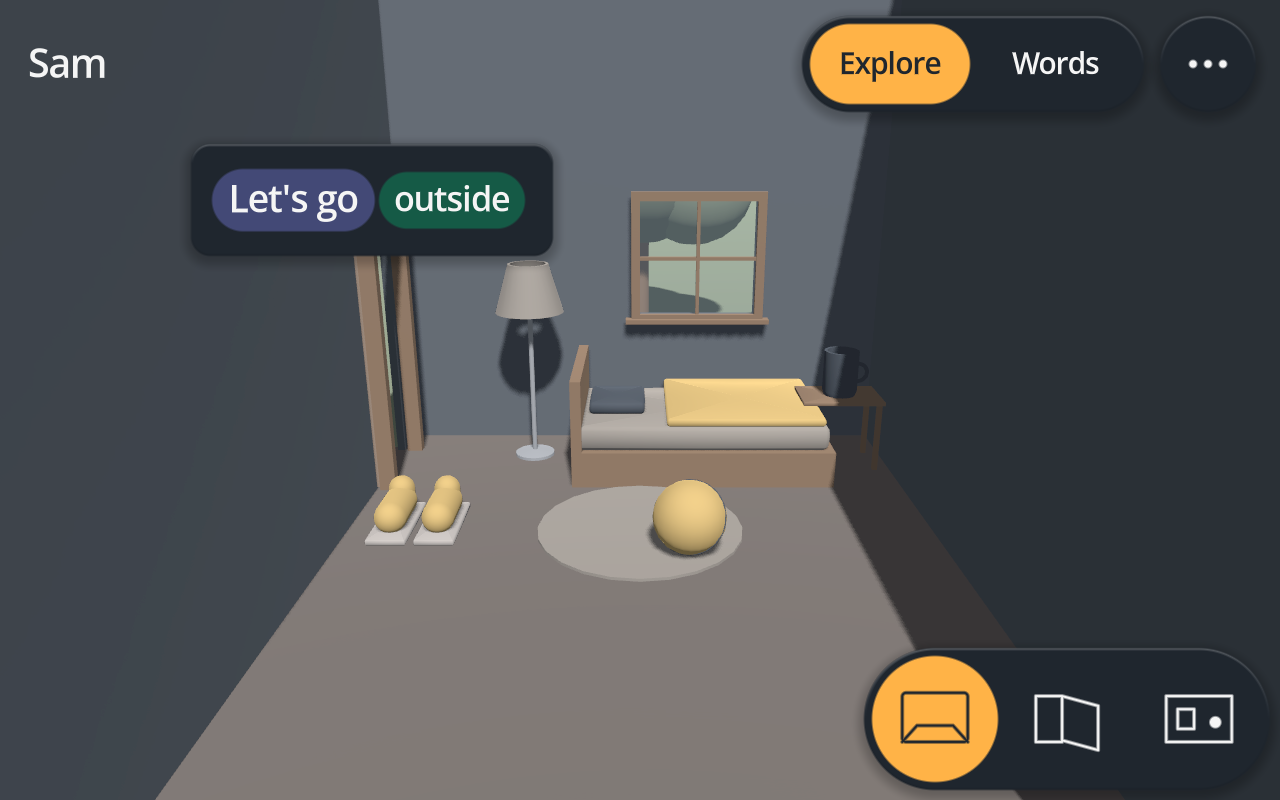
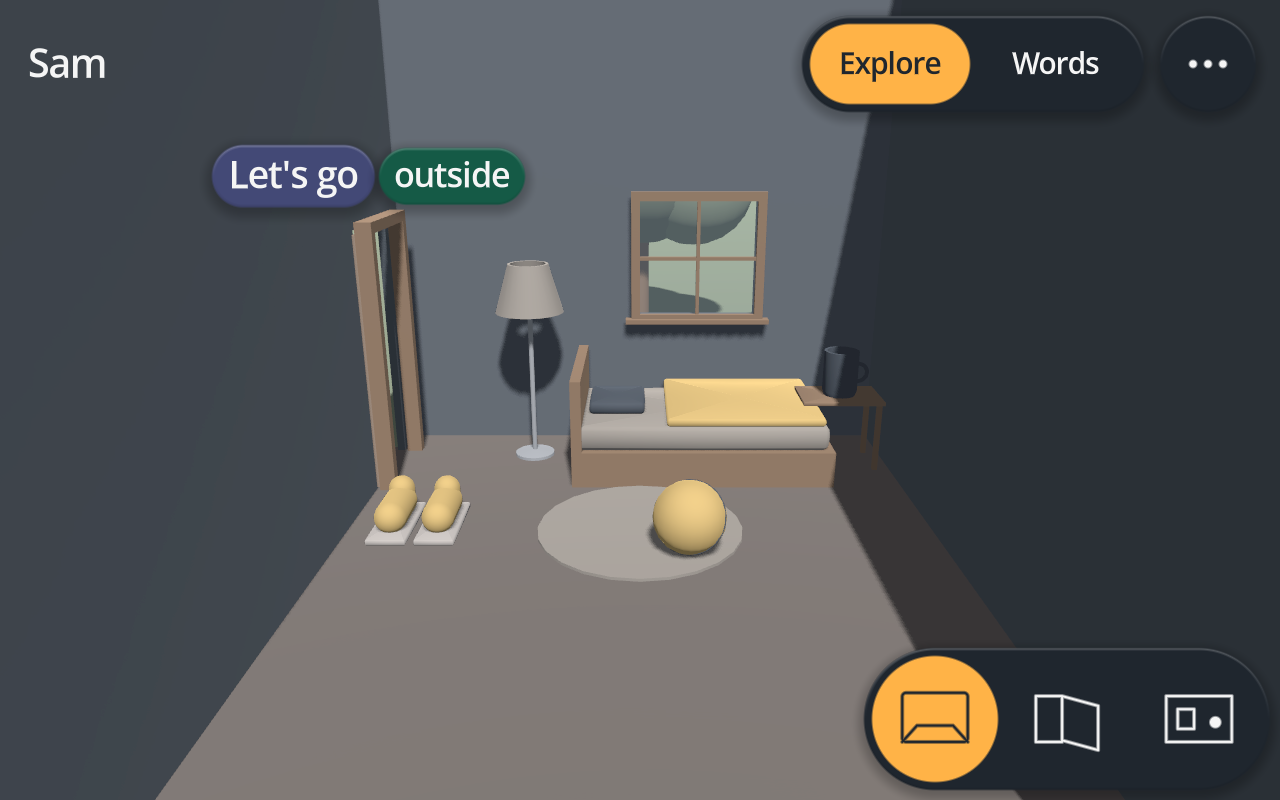
feat(ui) float the room caption as bare chunk pills with the style's relief
- The caption over an object is a `ChunkRow` alone. The `SdfPanel` card behind it is gone.
- `ChunkRow.floating` gives the pills the preset's relief, the lit rim and the shadow, so they stand off the
  room. A tile's pills stay flat.
- The caption is placed again once wrapped pills settle their height.
- The room probe checks that the caption is bare pills with relief and that tile pills are flat.
- `docs/img/room.png` is re-rendered.

Changed region(s): [[0.125, 0.1562, 0.4375, 0.3438]]

diff --git a/docs/ui.md b/docs/ui.md
@@ -58,6 +58,8 @@ is `PASS`, so a tap on its padding does not.
 - The chunk being spoken grows by a tenth, times `Style.motion_scale()`. At motion NONE it brightens instead
   and keeps its size.
 - The tile in Words and the caption in the room are both a `ChunkRow`.
+- A caption has no card behind it. Its pills take the style's relief, so they stand off the room.
+- A tile's pills sit flat on the tile.
 
 ## The controls
 
@@ -70,7 +72,7 @@ is `PASS`, so a tap on its padding does not.
 | `PillBar` | `MarginContainer` | A floating pill of quiet pill buttons in one toggle group: the mode strip, the view widget. A view button is seven tenths of the tile floor, never under 96 px. |
 | `SdfField` | `LineEdit` | A text field with an `SdfShape` behind it; focus adds the accent border. |
 | `HoldButton` | `SdfButton` | Fires only after a hold. Every adult screen sits behind one. |
-| `ChunkRow` | `HFlowContainer` | A gestalt's chunks as wrapping pills, each an `SdfShape` in its chunk color. `play` marks each chunk in turn. |
+| `ChunkRow` | `HFlowContainer` | A gestalt's chunks as wrapping pills, each an `SdfShape` in its chunk color. `play` marks each chunk in turn. `floating` gives the pills the style's relief. |
 
 The background quad an `SdfShape` paints is the control grown by `SdfShape.PAD_PX` on each side, so the
 shadow has room. It is drawn with `draw_texture_rect` over a white texture because a plain rect carries no UVs
@@ -111,7 +113,7 @@ which is where they are checked. The picker image uses the probe's isolated fixt
 - Profile rows keep their Look action inline. Creation and look editing have separate forms.
 - Keyboard focus stays inside the recording overlay. Back and Escape restore focus to the initiating control.
 - A scroll or lost window focus cancels a caregiver hold. Losing focus also cancels an unfinished recording.
-- The current phrase has one opaque caption panel. Repeated taps replace it; view changes clear it.
+- The current phrase has one caption. Repeated taps replace it; view changes clear it.
 - Shadows remain dark in every style. Glyphs change color while pressed. Chunk text keeps the text color on its pill.
 
 ## Visual sweep
